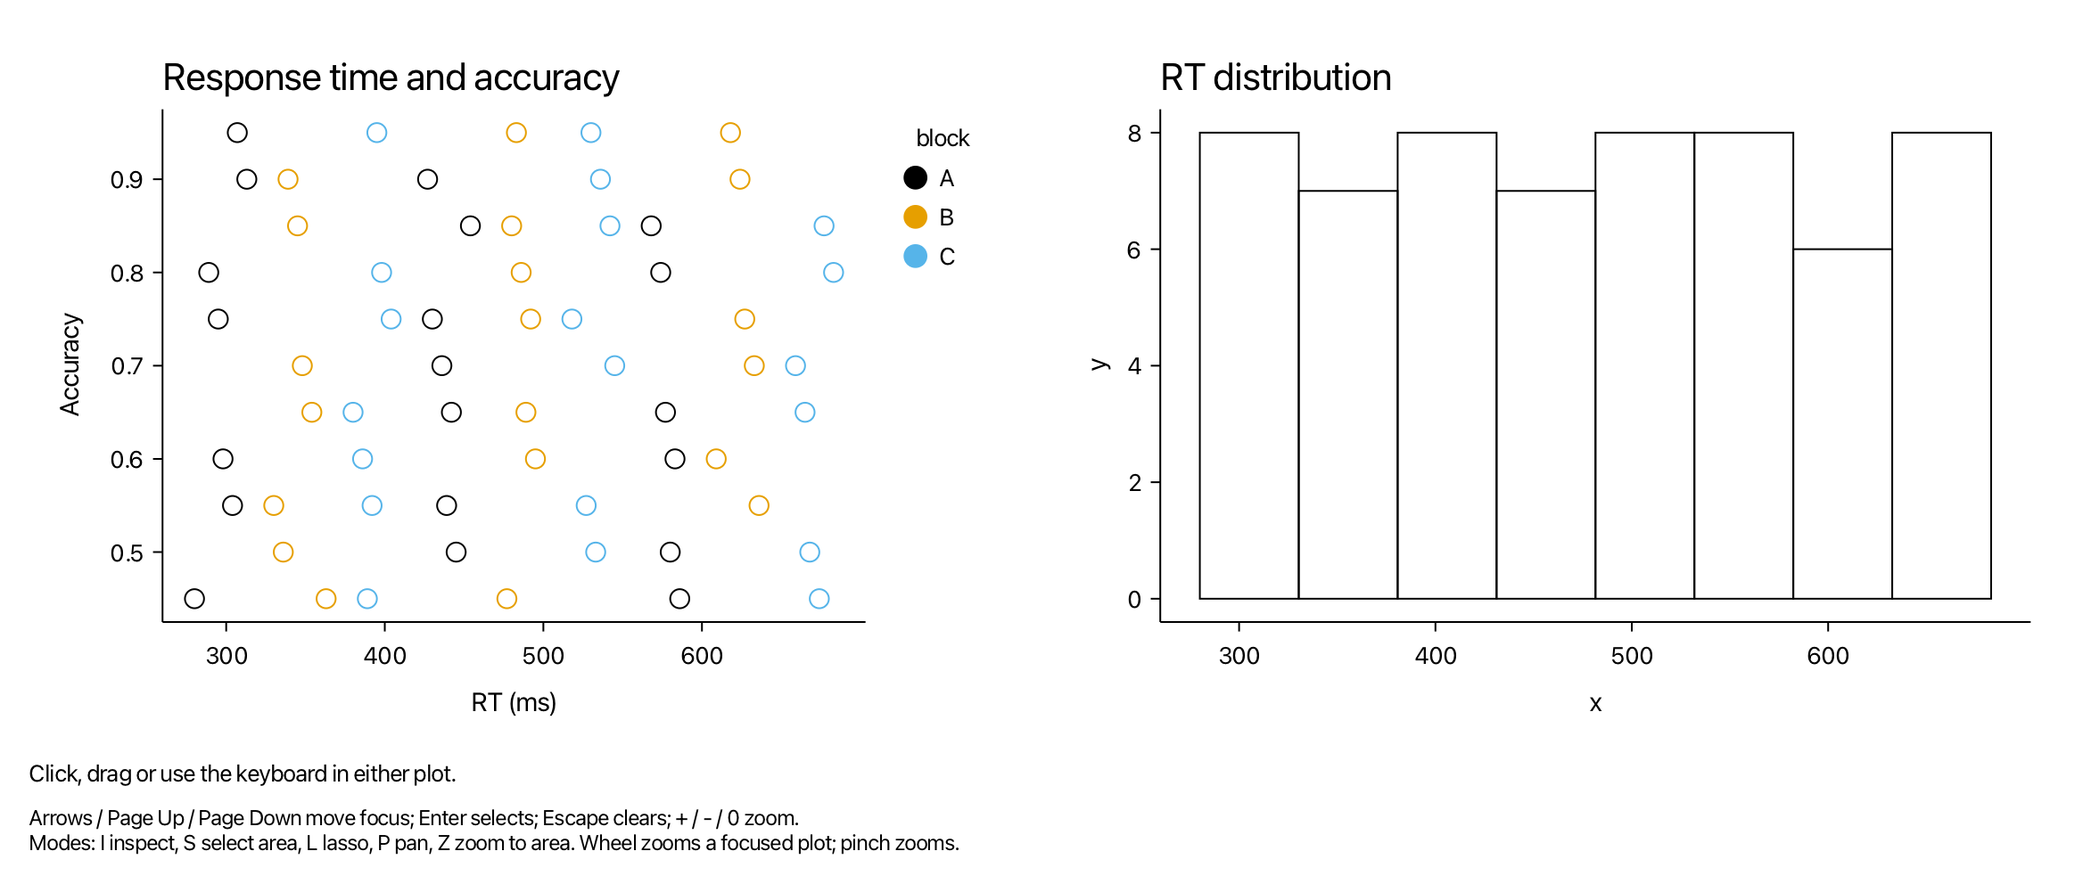
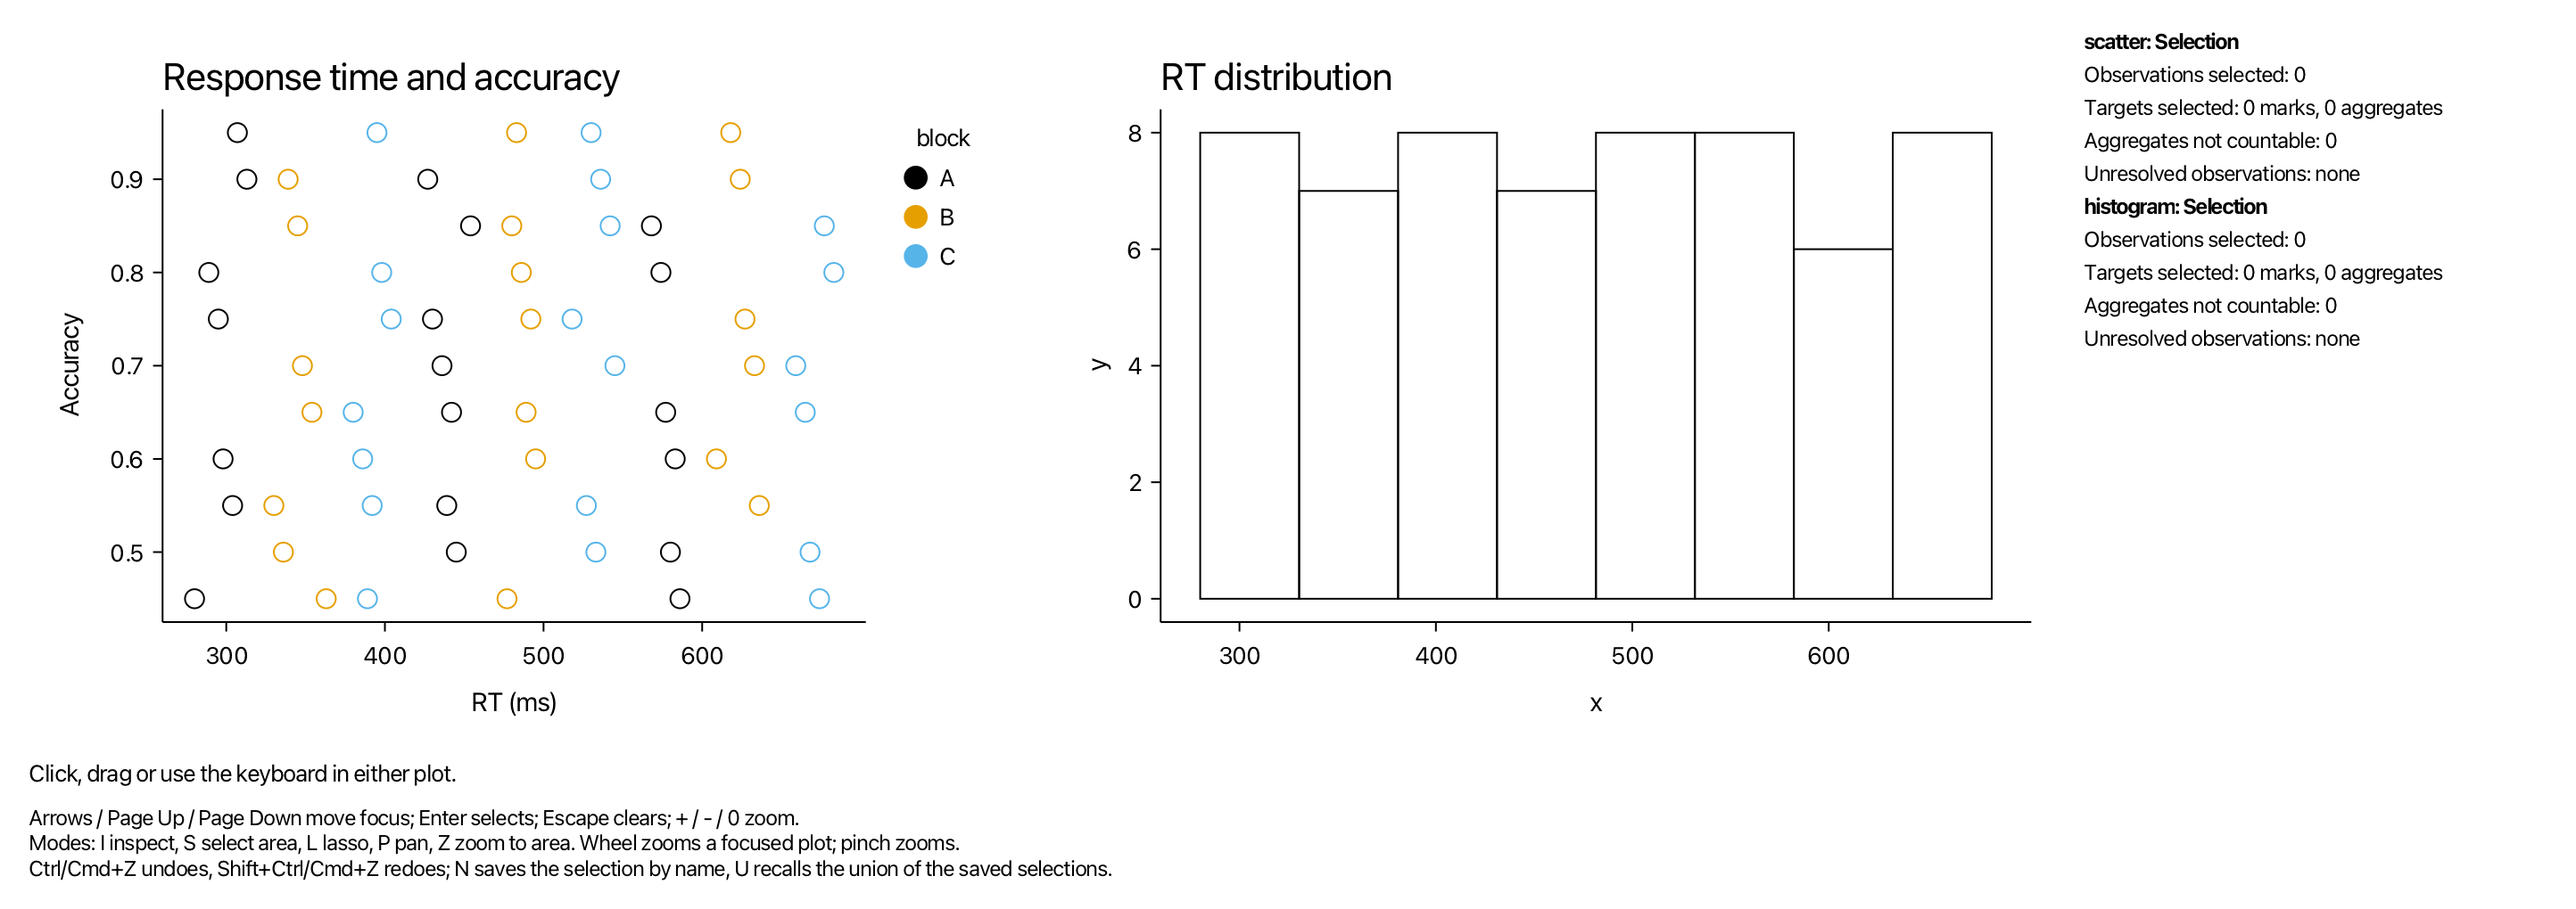
Refresh the Interaction 12 native receipt at 0f6243a
NativeEvidence at 0f6243a (clean, on main 5e1b10f), macOS 14.3 aarch64,
OpenJDK 25.0.1, OpenJFX 21.0.5+1, Glass MacApplication, Prism ES2, output
scale 2: widget, linked and members traces equal the re-recorded Chromium
traces; thread ownership, keyboard focus, inspector with keyboard undo/redo
and snapshot round trip, hover tooltip, navigation and disposal pass. Scene
events with the physical pointer filtered; OS-injected input stays pending.

diff --git a/evidence/interaction12/README.md b/evidence/interaction12/README.md
@@ -1,8 +1,9 @@
 # Interaction 12: JavaFX host receipt
 
-The JavaFX interaction host was qualified at source
-**`58c80a181f2c014ef744c89f2a5bbec64f6118d6`** (clean tree) by three separate courts. None is
-inferred from another, and the headless results are not offered as desktop proof.
+The JavaFX interaction host, including its Interaction 10 surface (inspector, saved selections,
+undo/redo, snapshots), was qualified at source **`0f6243a9e67b157e09fb927da4c9e082594e08b0`**
+(clean tree, on main `5e1b10f`) by three separate courts. None is inferred from another, and the
+headless results are not offered as desktop proof.
 
 ## Native desktop (this directory)
 
@@ -15,12 +16,12 @@ inferred from another, and the headless results are not offered as desktop proof
 | JDK | OpenJDK 25.0.1 (Homebrew) |
 | OpenJFX | 21.0.5+1 (`javafx-base`/`javafx-graphics` `mac-aarch64`) |
 | Glass / Prism | `com.sun.glass.ui.mac.MacApplication` / `com.sun.prism.es2.ES2Pipeline` |
-| Display | 1728 x 1117 logical, output scale 2; each stage reported output scale 2 and OS focus |
+| Display | 1728 x 1117 logical; every stage reported output scale 2 |
 | Input path | `scene-events`: JavaFX events fired into the live scene graph; physical pointer and keyboard filtered out of the scripted stages; **no OS input injected** |
 
 Results:
 
-- **Shared traces**: the widget (45 steps), linked (21) and members (19) scripts produced traces
+- **Shared traces**: the widget (45 steps), linked (21) and members (22) scripts produced traces
   equal, step by step, to the recorded Chromium traces ([`widget-javafx.json`](widget-javafx.json),
   [`linked-javafx.json`](linked-javafx.json), [`members-javafx.json`](members-javafx.json)); no host
   errors.
@@ -28,7 +29,11 @@ Results:
   the FX thread.
 - **Keyboard focus**: the plot node is the scene's focus owner; Home/Right/Enter rove, show the
   tooltip at once, announce the mark and select it, and the selection is projected into the linked
-  histogram.
+  histogram. The window held OS focus for the first trace stage only in this run (another
+  application took it); scene-level focus ownership, which these checks use, does not depend on it.
+- **Inspector and history**: the `JavaFxInspector` shows the selected observation ("1: t29"); the
+  platform undo shortcut (Cmd+Z) clears it, Shift+Cmd+Z restores it, and a snapshot round-trips
+  through JSON.
 - **Tooltip**: pointer hover shows the delayed structured tooltip.
 - **Navigation**: keyboard zoom twice, a pan drag and `0` reset, through `DataWindowNavigator` and
   `InteractionCompiler.rezoom`.
@@ -37,8 +42,8 @@ Results:
 
 Screenshots are snapshots of the real stages' scene graphs at output scale 2 (not screen grabs):
 [initial](screenshots/example-initial.png), [keyboard focus](screenshots/example-keyboard-focus.png),
-[hover tooltip](screenshots/example-hover-tooltip.png), [zoomed](screenshots/example-zoomed.png),
-[panned](screenshots/example-panned.png), and trace steps
+[inspector](screenshots/example-inspector.png), [hover tooltip](screenshots/example-hover-tooltip.png),
+[zoomed](screenshots/example-zoomed.png), [panned](screenshots/example-panned.png), and trace steps
 [widget 1](screenshots/widget-step-1.png) (keyboard tooltip),
 [widget 14](screenshots/widget-step-14.png) (delayed hover tooltip, inverse emphasis) and
 [members 4](screenshots/members-step-4.png) (linked coverage "1 of 7 selected").
@@ -50,17 +55,14 @@ multi-monitor scale changes, and Windows/Linux desktops.
 ## Shared traces against the browser
 
 `tools/check-host-trace-browser.cjs` recorded [`tools/trace/browser`](../../tools/trace/browser) in
-Playwright Chromium 151.0.7922.34 on SVG and Canvas from the fixture built at the same browser and
-fixture sources (unchanged by this work since `e891562`). Each record carries the script and
-fixture SHA-256. `JavaFxTraceParitySuite` requires the SVG and Canvas recordings to agree with each
-other and the JavaFX replay to equal them, through both the Glass robot and scene events, and checks
-that one changed event, key or announcement is detected.
+Playwright Chromium 151.0.7922.34 on SVG and Canvas, from the fixture built at `5e1b10f` (the browser
+and fixture sources are unchanged on this branch). Each record carries the script and fixture
+SHA-256. `JavaFxTraceParitySuite` requires the SVG and Canvas recordings to agree with each other
+and the JavaFX replay to equal them, through both the Glass robot and scene events, and checks that
+one changed event, key or announcement is detected.
 
 ## Headless toolkit
 
-Monocle with software Prism (`JavaFxInteractionHostSuite`, `JavaFxHostCapabilitySuite`: 62 tests on
-a simulated 2x screen; `JavaFxTraceParitySuite`: 7 tests on a 1x screen). Toolkit evidence only.
-
-At the same SHA: `sbt scalafmtCheckAll testAll` passed 2,208 tests in 17 reports;
-`tools/check-compatibility.sh` passed (javafx binary- and source-compatible with 0.5.0 under 28
-reviewed forward additions; 12 TASTy checks). These are local receipts, not hosted CI.
+Monocle with software Prism: `JavaFxInteractionHostSuite`, `JavaFxHostCapabilitySuite` and
+`JavaFxHistorySuite` on a simulated 2x screen, and `JavaFxTraceParitySuite` on a 1x screen. This is
+toolkit evidence only. Gate results for the final commit are recorded in its commit message.
